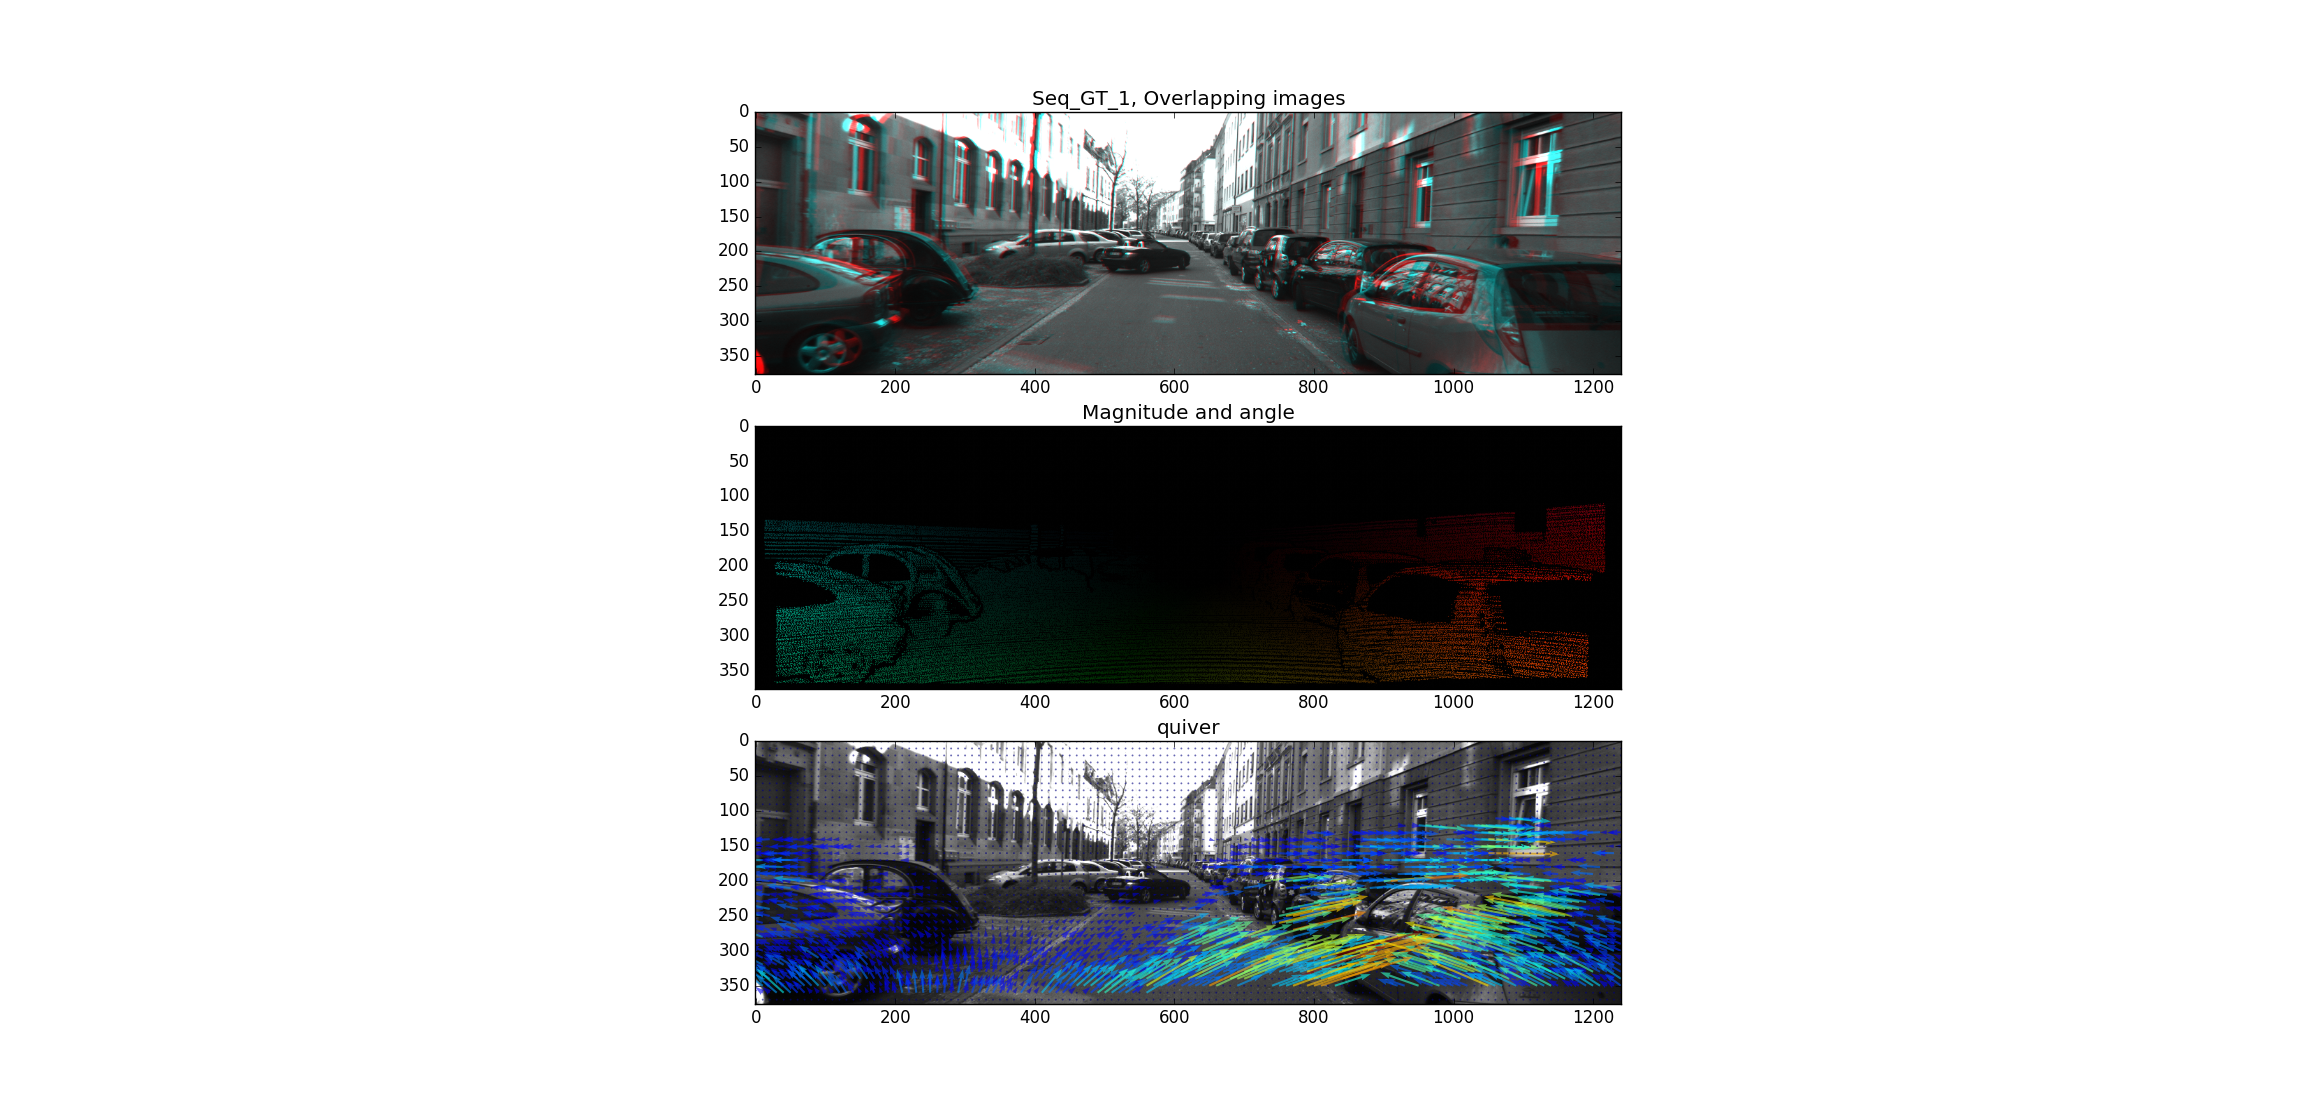
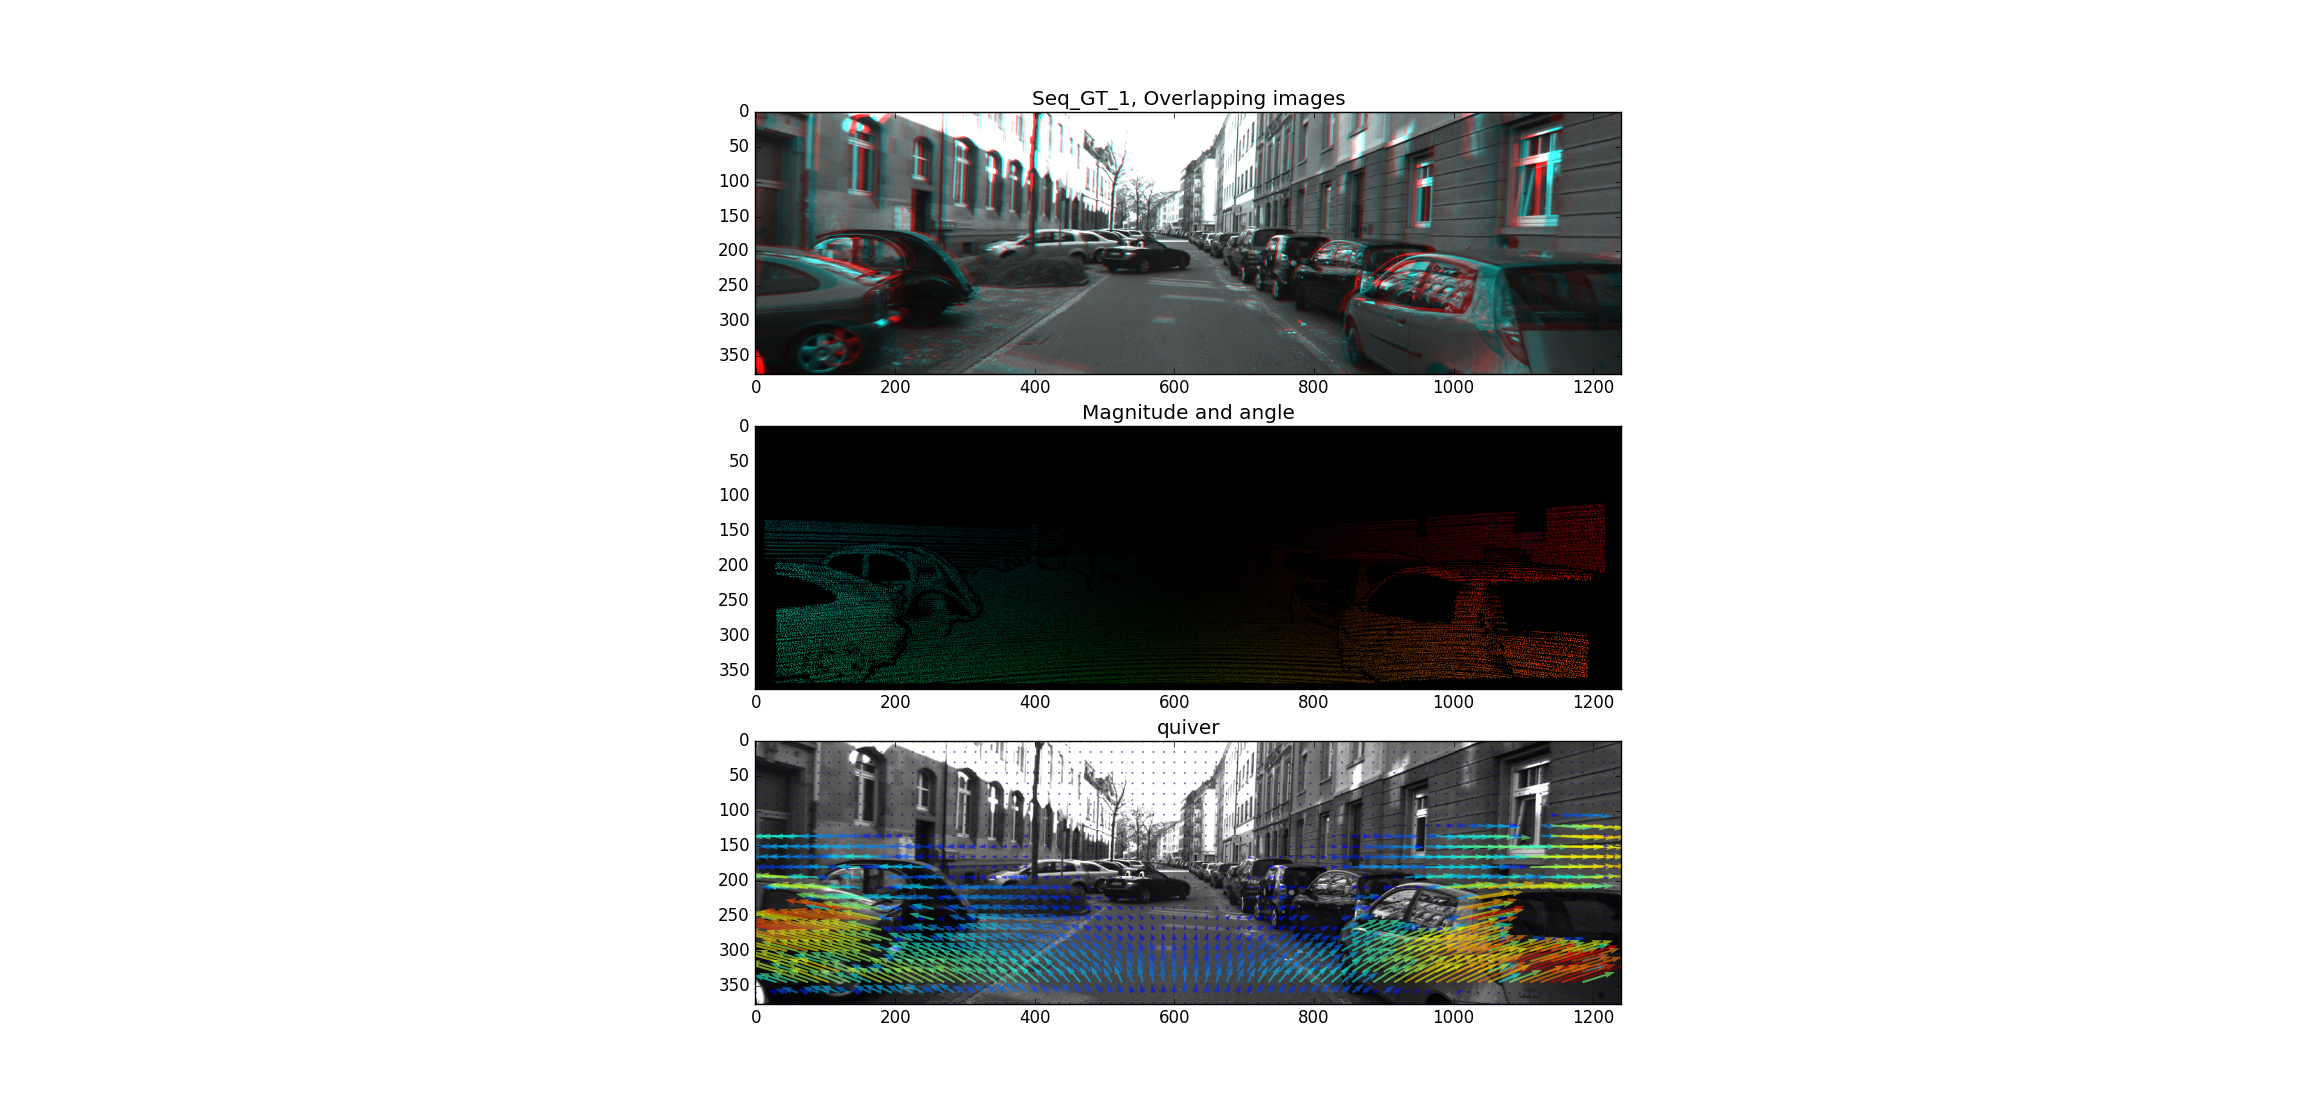
.

Changed region(s): [[0.3106, 0.7318, 0.7144, 0.9148], [0.4038, 0.6709, 0.528, 0.7318]]

diff --git a/code/utils_opticalFlow.py b/code/utils_opticalFlow.py
@@ -13,7 +13,7 @@ from matplotlib import gridspec
 #import matplotlib.ticker as ticker
 # Our LIBS
 import utils as utils
-
+from skimage.measure import block_reduce
 
 
 # Function for Optical Flow
@@ -87,9 +87,14 @@ def plotOF(img1,img2, Fu, Fv, step = 20 , title_ = 'Test' ):
     #mag, ang = cv.cartToPolar(Fu,Fv)
     Fu_dn = cv.resize(Fu, (0, 0), fx=1. / step, fy=1. / step)
     Fv_dn = cv.resize(Fv, (0, 0), fx=1. / step, fy=1. / step)
-
-    imsize = np.shape(Fu)
-    X,Y = np.meshgrid(np.arange(0,imsize[1],step),np.arange(0,imsize[0],step))
+    Fu_dn = block_reduce(Fu, block_size=(step,step), func=np.mean)
+    Fv_dn = block_reduce(Fv, block_size=(step,step), func=np.mean)
+    x_pos = np.arange(0, imsize[1], step)
+    y_pos = np.arange(0, imsize[0], step)
+    X = np.meshgrid(x_pos)
+    Y = np.meshgrid(y_pos)
+    #imsize = np.shape(Fu)
+    #X,Y = np.meshgrid(np.arange(0,imsize[1],step),np.arange(0,imsize[0],step))
     fig = plt.figure(1)
     ax1 = plt.subplot(311)
     ax3 = plt.subplot(312)
